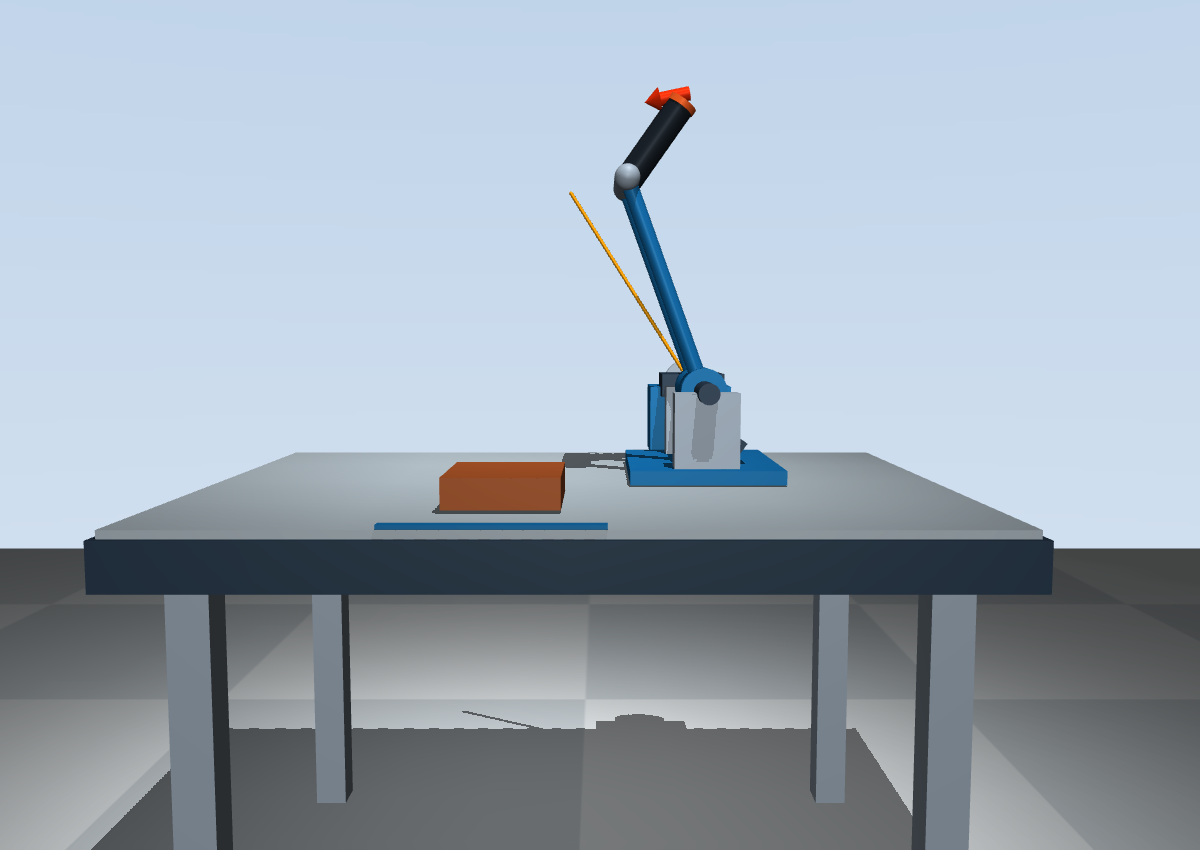
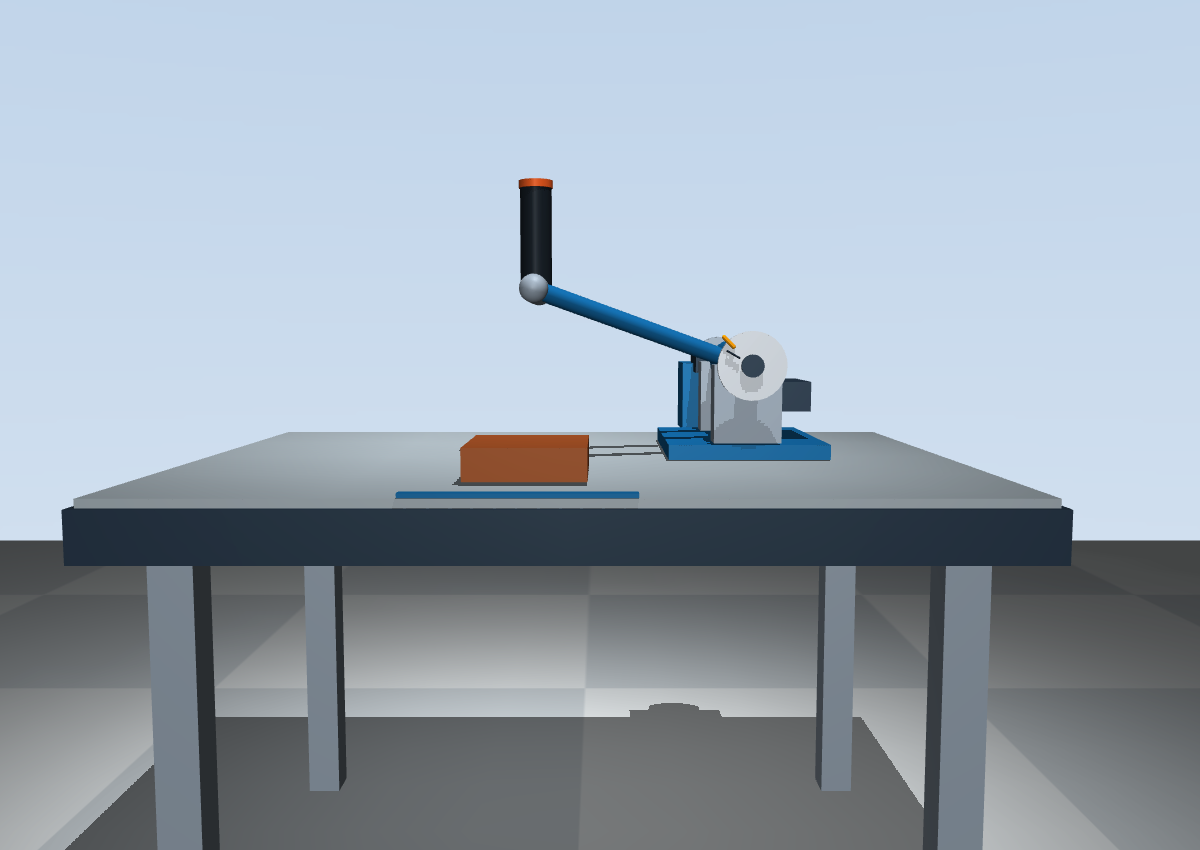
Refine V0.3 arm placement, initial grip posture and shaft boundary dial

Changed region(s): [[0.0, 0.0918, 1.0, 1.0]]

diff --git a/sim/test_mechanics.py b/sim/test_mechanics.py
@@ -22,8 +22,8 @@ class MechanicsTests(unittest.TestCase):
             d.qpos[0] = angle
             mujoco.mj_forward(m, d)
             r = d.geom('handle').xpos - d.xanchor[0]
-            self.assertAlmostEqual(r[1], 0)
-            self.assertAlmostEqual(np.linalg.norm(r), np.hypot(0.32, 0.30))
+            self.assertAlmostEqual(r[1], -0.14)
+            self.assertAlmostEqual(np.linalg.norm(r[[0, 2]]), np.sqrt(0.34176015**2 + 0.20**2))
             self.assertGreater(d.geom('handle').xpos[2], 0.15)
             np.testing.assert_allclose(d.xaxis[0], [0, 1, 0], atol=1e-12)
         d.qpos[0] = 0
@@ -49,3 +49,24 @@ class MechanicsTests(unittest.TestCase):
         mujoco.mj_forward(self.model, self.data)
         expected = np.array([np.cos(0.2), 0, np.sin(0.2), 0])
         np.testing.assert_allclose(self.model.body('boundary_reference').quat, expected)
+
+    def test_initial_pose_and_unchanged_rod_length(self):
+        m, d = self.model, self.data
+        mujoco.mj_forward(m, d)
+        np.testing.assert_allclose(d.xanchor[0], [0.28, 0.10, 0.20])
+        np.testing.assert_allclose(d.geom('handle').xpos, [-0.06176015, -0.04, 0.40])
+        delta = d.geom('handle').xpos - d.geom('elbow_pad').xpos
+        self.assertAlmostEqual(np.linalg.norm(delta[:2]), 0.20)
+        self.assertAlmostEqual(delta[2], 0.325)
+        for name in ('arm_left', 'arm_right'):
+            self.assertAlmostEqual(2 * m.geom(name).size[1], np.hypot(0.32, 0.22))
+
+    def test_dial_boundary_matches_grip_radial_direction(self):
+        m, d = self.model, self.data
+        set_boundary_marker(m, BrakeParameters(free_boundary=0.4))
+        d.qpos[0] = 0.4
+        mujoco.mj_forward(m, d)
+        grip_radial = (d.geom('handle').xpos - d.xanchor[0])[[0, 2]]
+        tick_radial = (d.geom('free_boundary_marker').xpos - d.xanchor[0])[[0, 2]]
+        np.testing.assert_allclose(tick_radial / np.linalg.norm(tick_radial),
+                                   grip_radial / np.linalg.norm(grip_radial))

diff --git a/sim/visualization.py b/sim/visualization.py
@@ -8,14 +8,14 @@ ARROW_METERS_PER_NM = 0.22
 def configure_camera(camera):
     """Initialize a free camera from the user's front left."""
     camera.type = mujoco.mjtCamera.mjCAMERA_FREE
-    camera.lookat[:] = [0.04, 0.05, 0.14]
-    camera.distance = 1.8
+    camera.lookat[:] = [0.04, 0.0, 0.10]
+    camera.distance = 1.7
     camera.azimuth = 125
-    camera.elevation = -25
+    camera.elevation = -35
 
 
 def set_boundary_marker(model, parameters):
-    """Rotate the static reference ray about the same +Y axis as the arm."""
+    """Rotate the shaft-mounted boundary tick about the arm's +Y axis."""
     angle = parameters.initial_angle + parameters.forward_sign * parameters.free_boundary
     model.body('boundary_reference').quat[:] = [np.cos(angle / 2), 0, np.sin(angle / 2), 0]
 

diff --git a/sim/run.py b/sim/run.py
@@ -55,7 +55,7 @@ def main():
             print(f"Keyboard input direction: {input_direction[0]:+d}", flush=True)
 
     print("Viewer focused: 1 = forward torque, 2 = reverse torque, 0 = release, Esc = quit", flush=True)
-    print("Yellow line = free-space boundary; angle and torques appear here every 0.25 s.", flush=True)
+    print("Yellow dial tick = free-space boundary; angle and torques appear here every 0.25 s.", flush=True)
     print("Orange arrow = actual brake torque; drag the mouse to orbit/pan, scroll to zoom.", flush=True)
     print("Ideal passive balance: moving COM on horizontal shaft; no active gravity compensation.", flush=True)
     started = time.monotonic()

diff --git a/README.md b/README.md
@@ -1,4 +1,4 @@
-# armwrestling
+# armwrestling — MuJoCo 机械布局 V0.3
 
 单自由度被动力反馈扳手腕项目。当前 `sim/` 验证自由空间阻力控制；`real/` 只预留实机软件。
 
@@ -44,15 +44,19 @@ cd /home/lyf/armwrestling
 已阅读 [资料说明](docs/references/README.md) 和 [简化草图](docs/references/armwrestling_layout.svg)。原始机械图没有提供；用户于 2026-11-07 补充说明目前没有具体图纸，允许按成人手臂的大致姿态设计。因此下述布局是草图支持下的**可运行近似**，不是对原始 CAD 的核对结论，也不是人体适配或加工尺寸。
 
 - 坐标：Z 向上，用户坐在桌面 `y < -0.45 m` 一侧，桌前蓝色短条表示用户位置。
-- 橙棕色肘垫中心 `(-0.10, -0.23, 0.075) m`；初始握把中心 `(-0.10, 0.10, 0.50) m`，手从肘垫向后上方伸到握把。
-- 水平主轴沿 **+Y**，穿过 `(0.22, 0.10, 0.20) m`，由前后两个轴承支座承托。后方保留传动护罩与磁粉制动器外壳。
+- 橙棕色肘垫中心 `(-0.0618, -0.24, 0.075) m`；初始握把中心 `(-0.0618, -0.04, 0.40) m`，手从肘垫向后上方伸到握把。
+- 水平主轴沿 **+Y**，穿过 `(0.28, 0.10, 0.20) m`，由前后两个轴承支座承托。后方保留传动护罩与磁粉制动器外壳。
 - 两根蓝色长杆平行安装，中心间距 0.11 m，每根中心线长约 0.388 m，由主轴轮毂连接到握把端横梁。它们与横梁构成同一个刚性摆臂，只有一个转动自由度；没有擅自增加四连杆铰链。
-- 握把初始竖直，摆动中随双杆一起倾斜。握把中心到主轴的垂距约 0.439 m，绕主轴在竖直 XZ 平面内走圆弧；不会在桌面内水平扫动。
-- 正角度按 +Y 轴右手定则定义。初始握把偏置 `r0=(-0.32,0,0.30) m`，轨迹为 `p(θ)=p_axis + Ry(θ)r0`。限位范围 `[-0.55,1.2] rad` 仅用于这个示意布局。
+- 握把初始竖直，摆动中随双杆一起倾斜。握把中心到主轴的垂距约 0.396 m，绕主轴在 `y=-0.04 m` 的竖直平面内走圆弧；不会在桌面内水平扫动。
+- 正角度按 +Y 轴右手定则定义。初始握把偏置 `r0=(-0.34176015,-0.14,0.20) m`，轨迹为 `p(θ)=p_axis + Ry(θ)r0`。限位范围 `[-0.55,1.2] rad` 仅用于这个示意布局。
+
+杆长保持约 0.388 m，通过端部向前偏移 0.14 m、抬升从 0.22 m 降为 0.12 m，形成右后主轴到左前握把的斜向长摆臂。零位握把到肘垫中心的水平距离为 0.20 m、高度差为 0.325 m。完整的新旧坐标、轨迹与检查记录见 [V0.3 布局对照](docs/layout-v03.md)。
+
+默认自由相机采用方位 125°、俯角 35°；已比较同一姿态下的三个方位。
 
 ![初始姿态](docs/previews/neutral.png)
 
-制动状态下的 [斜上方](docs/previews/oblique.png)、[侧面](docs/previews/side.png)、[俯视](docs/previews/top.png) 图来自 MuJoCo Renderer，使用实际查看器检查时相同的状态和自由相机参数。
+[斜俯视](docs/previews/oblique.png)、[侧面](docs/previews/side.png)、[俯视](docs/previews/top.png) 主图均显示 θ=0 的初始姿态；[制动状态](docs/previews/braking.png) 另图展示运动中握把随摆臂倾斜。图像来自 MuJoCo Renderer，使用实际查看器检查时相同的状态和自由相机参数。
 
 ## 重力与被动配平假设
 
@@ -74,7 +78,7 @@ M(q) = min(Mmax, K × max(0, q - qb))
 
 默认 `θ0=0`、`s=+1`、`qb=0.25 rad`、`K=2.0 N·m/rad`、`Mmax=0.8 N·m`、`ωε=0.05 rad/s`；按键用户力矩幅值 0.5 N·m。低速过渡连续且始终满足 `τbω≤0`，静止时无静态保持力矩。
 
-黄色参考射线位于主轴法向平面，表示握把中心在边界转角处的径向方向；为避免遮挡摆臂，其平面沿主轴错开 0.17 m。启动时按 `--boundary` 更新，已不再固定为默认角度。
+自由空间边界改为安装在主轴前端、半径 0.055 m 的圆形刻度盘：深色短线是零位，黄色短刻度是边界。盘面垂直于主轴；黄色刻度的径向方向对应握把在边界转角处的圆弧方向，启动时按 `--boundary` 更新。刻度盘与轴端相连，没有悬空长杆。
 
 橙红色箭头表示**实际制动力矩**。令世界主轴单位向量为 `a`，轴到握把的向量为 `r`，切向 `t=(a×r)/|a×r|`。箭头方向由 `τb t` 决定，长度为 `0.22|τb| m`，不是以牛顿为单位的接触力测量。箭头起点沿握把自身轴向抬高 0.11 m，随握把倾斜一起移动；`|τb|<1e-6 N·m` 时隐藏。
 
@@ -86,9 +90,9 @@ M(q) = min(Mmax, K × max(0, q - qb))
 .venv/bin/python -m unittest discover -s sim -p 'test_*.py' -v
 ```
 
-共 14 项测试：原有自由区、线性增长、封顶、零速过渡、方向和制动功率测试；另检查水平轴、双杆刚性连接、圆弧轨迹、肘垫与握把关系、多个角度下无重力漂移、边界更新、箭头方向/比例/隐藏及自由相机。
+共 16 项测试：原有自由区、线性增长、封顶、零速过渡、方向和制动功率测试；另检查水平轴、双杆刚性连接、圆弧轨迹、肘垫与握把关系、多个角度下无重力漂移、边界更新、箭头方向/比例/隐藏及自由相机。
 
-实际打开查看器，依次设置斜上方、侧面、俯视，每个视角运行 360 步正向、释放及反向用户力矩，然后检查同状态渲染图。自动脚本输入用于复现，未把无界面测试当作窗口验证。
+实际打开查看器，依次设置斜上方、侧面、俯视，每个视角运行 360 步正向、释放及反向用户力矩，然后检查同状态渲染图；同时保存同一零位的三个视角便于比较。自动脚本输入用于复现，未把无界面测试当作窗口验证。
 
 当前没有人体和真实接触约束；装饰碰撞禁用。肘垫不会约束用户肘部，未证明整个行程对人体可达或舒适。没有传动弹性、摩擦辨识、磁滞、延迟或热模型；握把的真实连接形式和配平方案仍需机械组确认。`real/` 本次未修改。
 

diff --git a/docs/layout-v03.md b/docs/layout-v03.md
@@ -1,0 +1,41 @@
+# V0.3 布局与轨迹对照（2026-11-08）
+
+坐标单位 m。以下数值取自编译后的 MuJoCo XML 世界坐标，正 Y 指向桌后，Z 向上。旧版为提交 `0c5613f`。
+
+| 零位量 | 修改前 | V0.3 |
+| --- | --- | --- |
+| 主轴轴线上基准点 | (0.2200, 0.1000, 0.2000) | (0.2800, 0.1000, 0.2000) |
+| 握把中心 | (-0.1000, 0.1000, 0.5000) | (-0.0618, -0.0400, 0.4000) |
+| 肘垫中心 | (-0.1000, -0.2300, 0.0750) | (-0.0618, -0.2400, 0.0750) |
+| 握把至肘垫水平距离 | 0.3300 | 0.2000 |
+| 握把至肘垫中心高度差 | 0.4250 | 0.3250 |
+| 握把中心高于肘垫顶面 | 0.4020 | 0.3020 |
+| 两根杆各自中心线长度 | 0.388330 | 0.388330 |
+| 杆端相对主轴的前伸量 | 0 | 0.1400 |
+| 杆端相对主轴的抬升量 | 0.2200 | 0.1200 |
+| 杆在 XZ 平面投影的抬升角 | 34.51° | 19.35° |
+| 握把中心绕主轴的圆弧半径 | 0.438634 | 0.395980 |
+| 零位握把与世界 Z 轴夹角 | 0° | 0° |
+
+两根杆没有缩短。通过改变端部坐标降低抬升、增加前伸，真实改变了布局和圆弧半径。主轴方向、理想配平、转动惯量和控制律保持原设置。
+
+## 同转角的握把世界坐标
+
+| θ / rad | 修改前 (x,y,z) | V0.3 (x,y,z) |
+| --- | --- | --- |
+| 0.000 | (-0.1000, 0.1000, 0.5000) | (-0.0618, -0.0400, 0.4000) |
+| 0.250 | (-0.0158, 0.1000, 0.5698) | (-0.0017, -0.0400, 0.4783) |
+| 0.618 | (0.1330, 0.1000, 0.6299) | (0.1173, -0.0400, 0.5610) |
+
+V0.3 轨迹为 `p(θ)=(0.28,0.10,0.20)+Ry(θ)(-0.34176015,-0.14,0.20)`，即握把中心在 `y=-0.04` 的竖直平面内走圆弧。初始握把竖直，随刚性摆臂摆动仍会倾斜；没有新增关节或主动保姿动画。
+
+## 检查结果
+
+- 先检查旧版零位与 θ=0.618 rad 图像：旧版主图使用运动状态，是杆看起来陡直、握把倾斜的一个原因；旧版零位握把原本竖直。
+- 对新模型同一零位分别实际渲染 105°、125°、145° 方位，仰角均为 -35°；选 125° 作为默认自由相机。镜头不参与轨迹计算。
+- 实际查看器分别使用斜俯视、侧视、俯视，每视角运行 360 步正向/释放/反向用户力矩，240 步显示非零制动箭头，正常关闭。
+- `docs/previews/oblique.png`、`side.png`、`top.png` 均为 θ=0 的同一初始姿态；`braking.png` 另示运动制动状态。图像由 MuJoCo Renderer 使用窗口检查时相同的状态/相机生成。
+- 新旧模型在相同正反向用户力矩下运行 700 步，关节角度和速度最大差为 0。几何轨迹不同，角动力学不变。
+- 16 项测试通过，包括原有 7 项控制测试；增加杆长保持、零位相对位置和端部刻度对应真实圆弧方向的检查。
+
+尺寸仍是布局示意；没有原始 CAD 或人体适配实验。配平假设不表示真实设备已经设计完成。

diff --git a/TASKS.md b/TASKS.md
@@ -54,3 +54,16 @@
 - [x] 核查三视图：双杆与水平主轴连接、肘垫前后关系、握把圆弧及箭头均符合所采用近似。人工鼠标手势没有重新验证，仍使用原生自由相机。
 - [x] `sim/control.py` 和 `real/` 未修改。README 记录尺寸、符号、重力假设与局限。
 - 仍待解决：真实轴位/CAD、刚性双杆还是其他连接、人体可达性、真实配重与惯量、碰撞和机械保护；不声称已与未提供的原图核对。
+
+## V0.3 布局修正（2026-11-08）
+
+- [x] 先检查旧版零位与 θ=0.618 rad 运动状态；区分杆倾角、握把转角和投影原因，没有直接缩短杆。
+- [x] 两根杆均保持 0.388330 m，杆端前伸 0.14 m，初始抬升降为 0.12 m；主轴右移 0.06 m。
+- [x] 零位握把保持竖直；握把—肘垫水平距离 0.33→0.20 m、中心高度差 0.425→0.325 m，布局而非相机发生真实变化。
+- [x] 比较同一姿态的 105°/125°/145° 三个方位，选择 125°/-35° 自由视角。
+- [x] 悬空感长黄线替换为轴端小刻度盘，深色为零位、黄色为边界；刻度与握把圆弧方向一致。
+- [x] 三个查看器角度各运行 360 步，包含正向/释放/反向输入，正常退出；16 项测试通过。
+- [x] 新旧模型同输入运行 700 步，角度/角速度最大差为 0；几何位置和轨迹已按 XML 世界坐标比较，见 `docs/layout-v03.md`。
+- [x] 主三视图改为 θ=0 的同一姿态，新增 `braking.png` 单独展示运动制动状态；初始竖直不等于运动中保持竖直。
+- [x] 控制律、单自由度、惯量及理想被动配平不变，`real/` 未修改。
+- 未解决项仍包括真实 CAD、握把被动连接形式、实际重力配平、人体适配与碰撞保护；不因外形改善宣称这些已验证。
